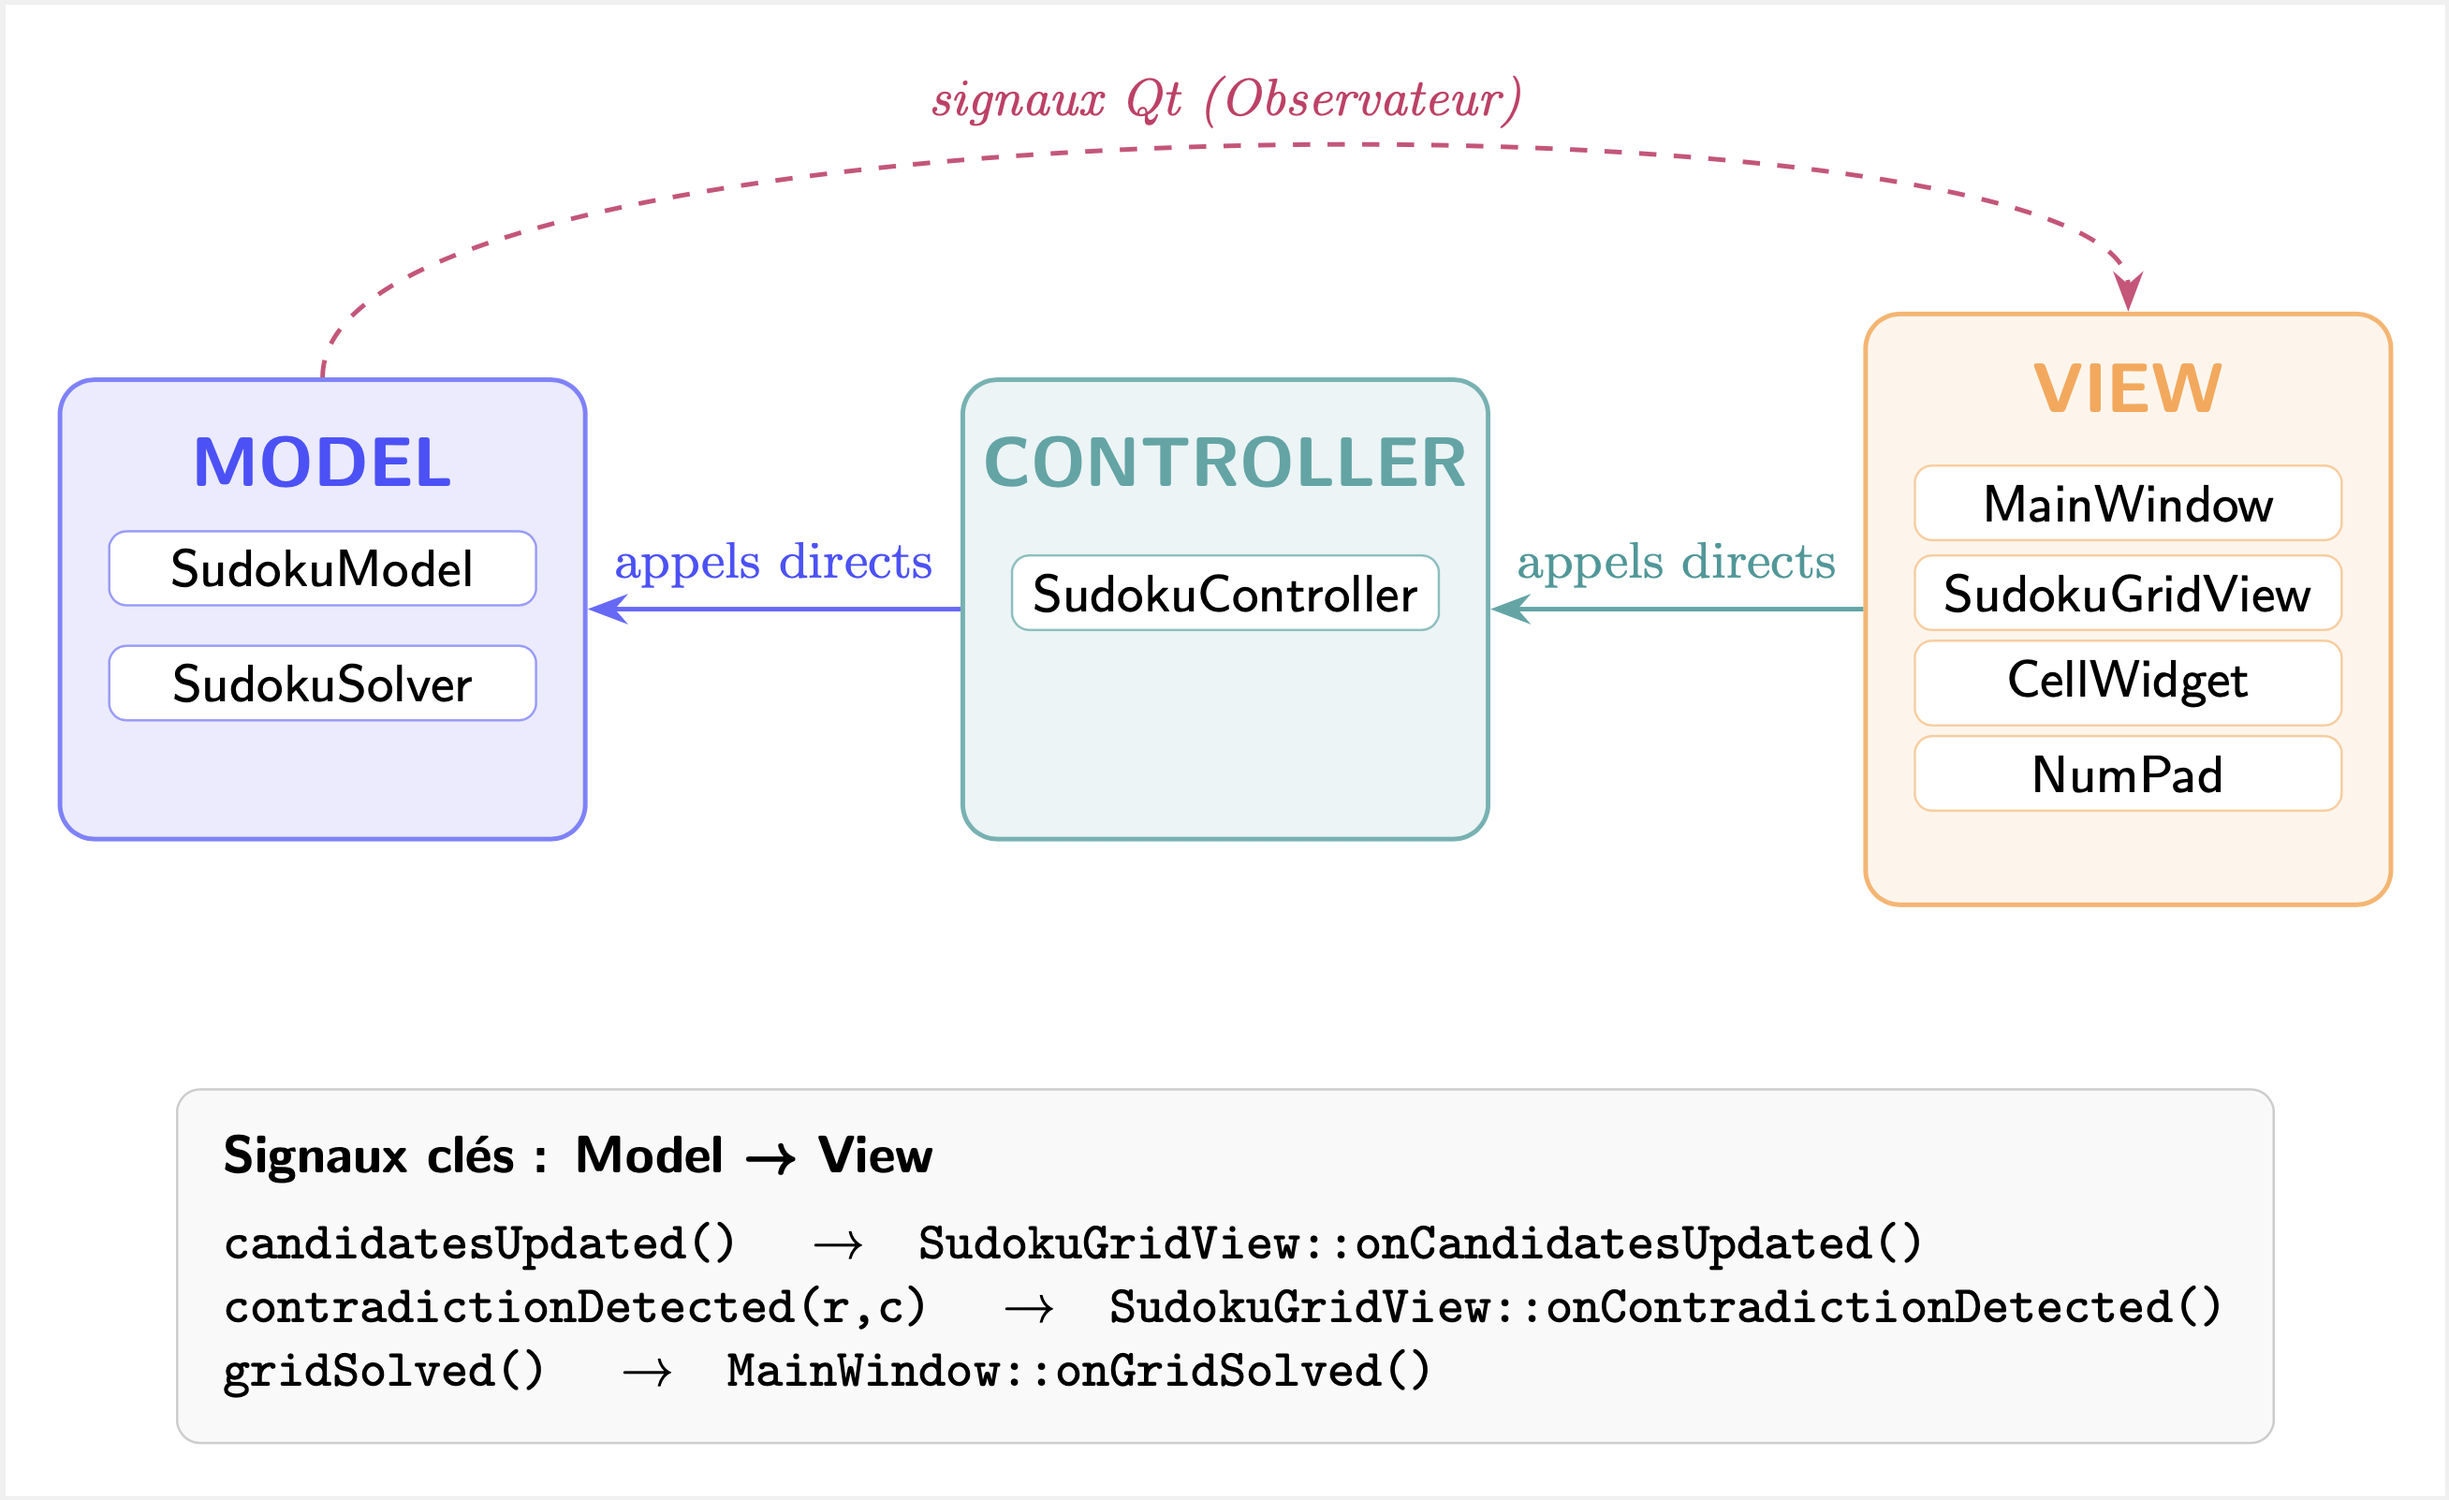
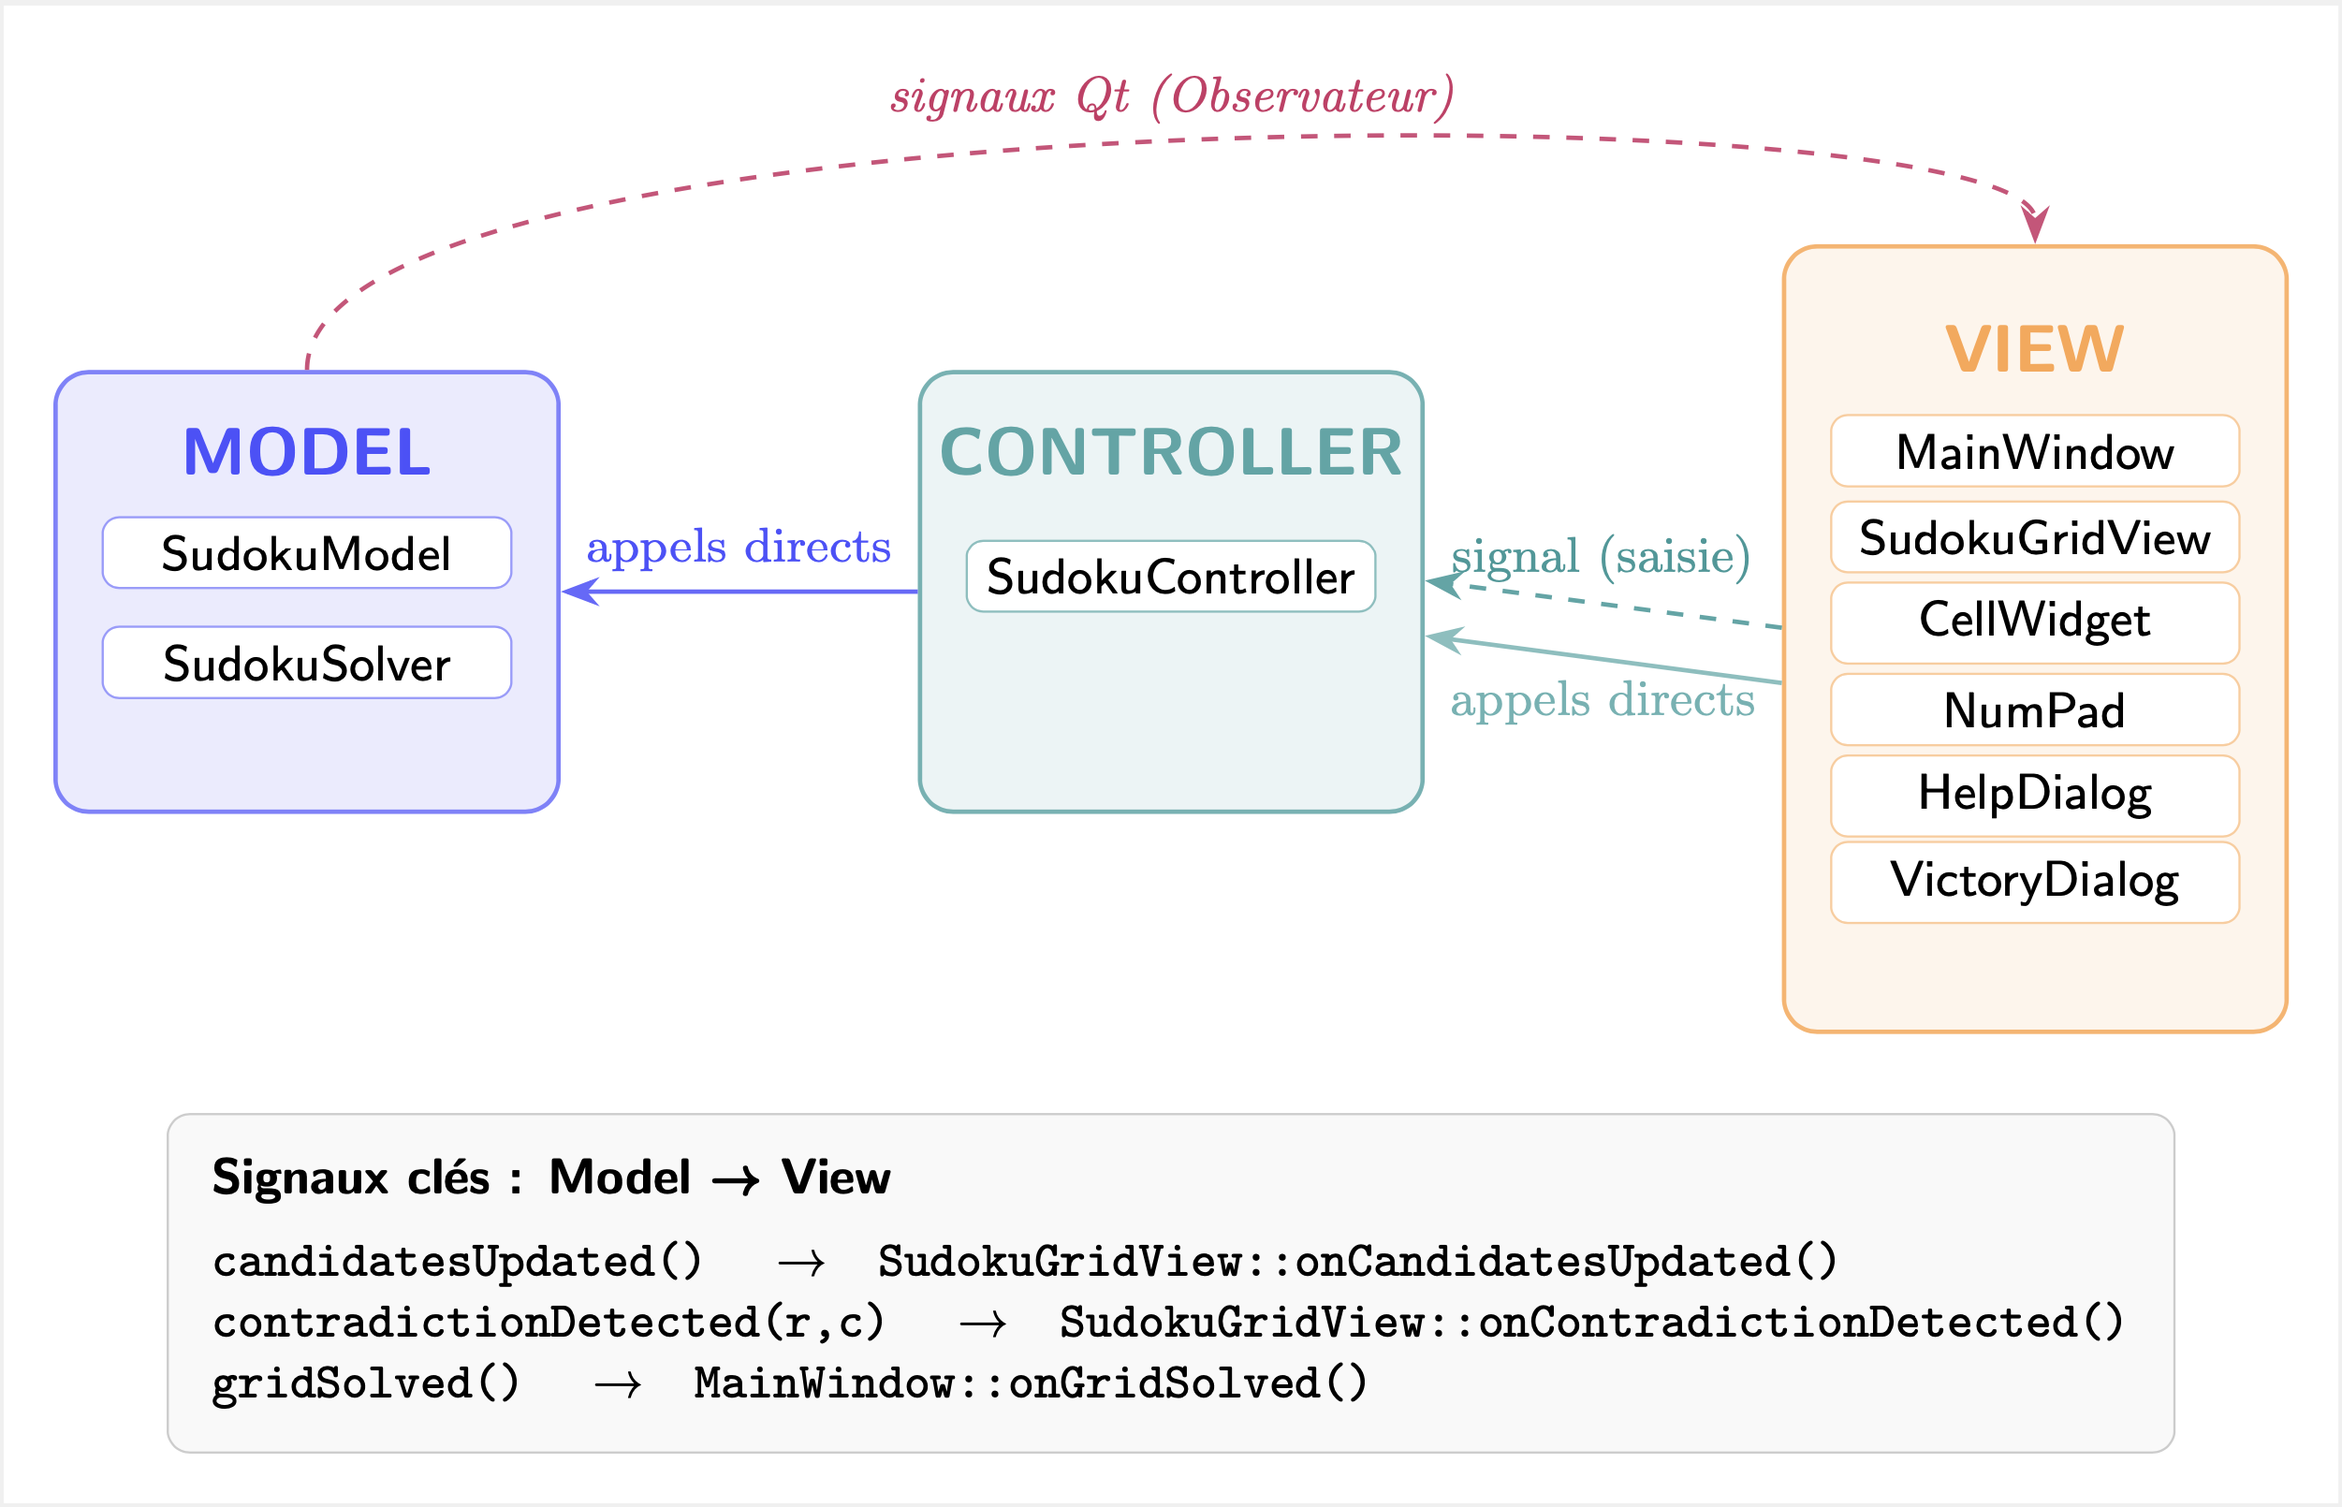
feat: README.md organization

diff --git a/README.md b/README.md
@@ -70,12 +70,14 @@ https://github.com/user-attachments/assets/db8e208a-4faf-4f73-9cde-45ee323951b3
 
 ## Architecture
 
-Le projet suit le patron **MVC (Modèle-Vue-Contrôleur)**. La Vue observe directement le Modèle via les signaux Qt (patron Observateur) et délègue les actions utilisateur au Contrôleur. Le Contrôleur met à jour le Modèle, qui notifie la Vue en émettant des signaux.
-
+Le projet suit le patron **MVC (Modèle-Vue-Contrôleur)**. Les signaux Qt implémentent le patron Observateur : le Modèle émet des signaux que la Vue reçoit via des connexions établies par MainWindow. L'utilisateur interagit avec la Vue, qui délègue les actions au Contrôleur. Le Contrôleur met à jour le Modèle, qui notifie la Vue en émettant ses signaux.
 <p align="center">
   <img src="resources/images/mvc.png" alt="Architecture MVC" width="900"/>
 </p>
 
+## Flux d'une saisie
+
+![Diagramme de séquence](resources/images/diag-seq.png)
 
 ### Modèle (`src/Model/`)
 
